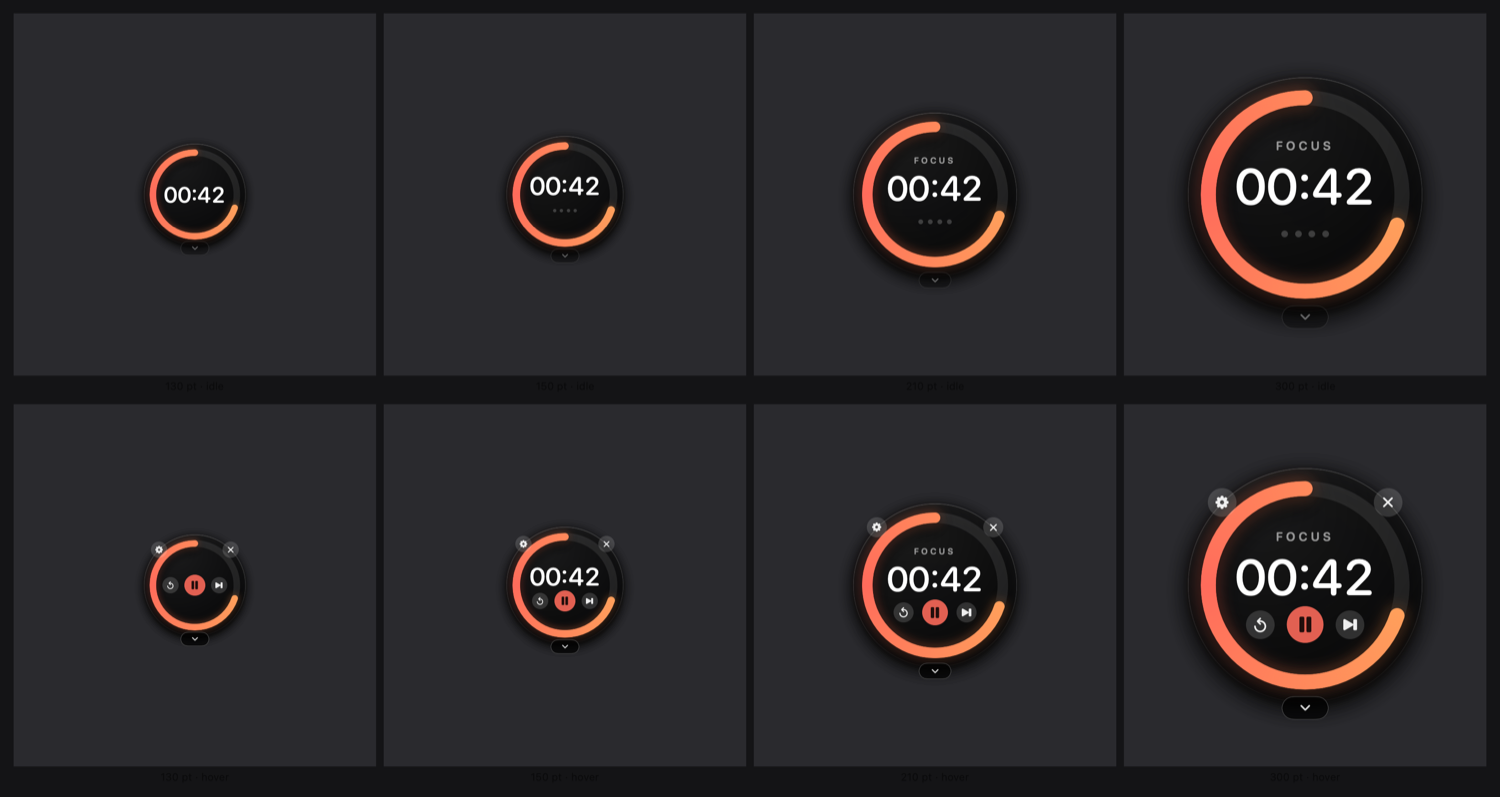
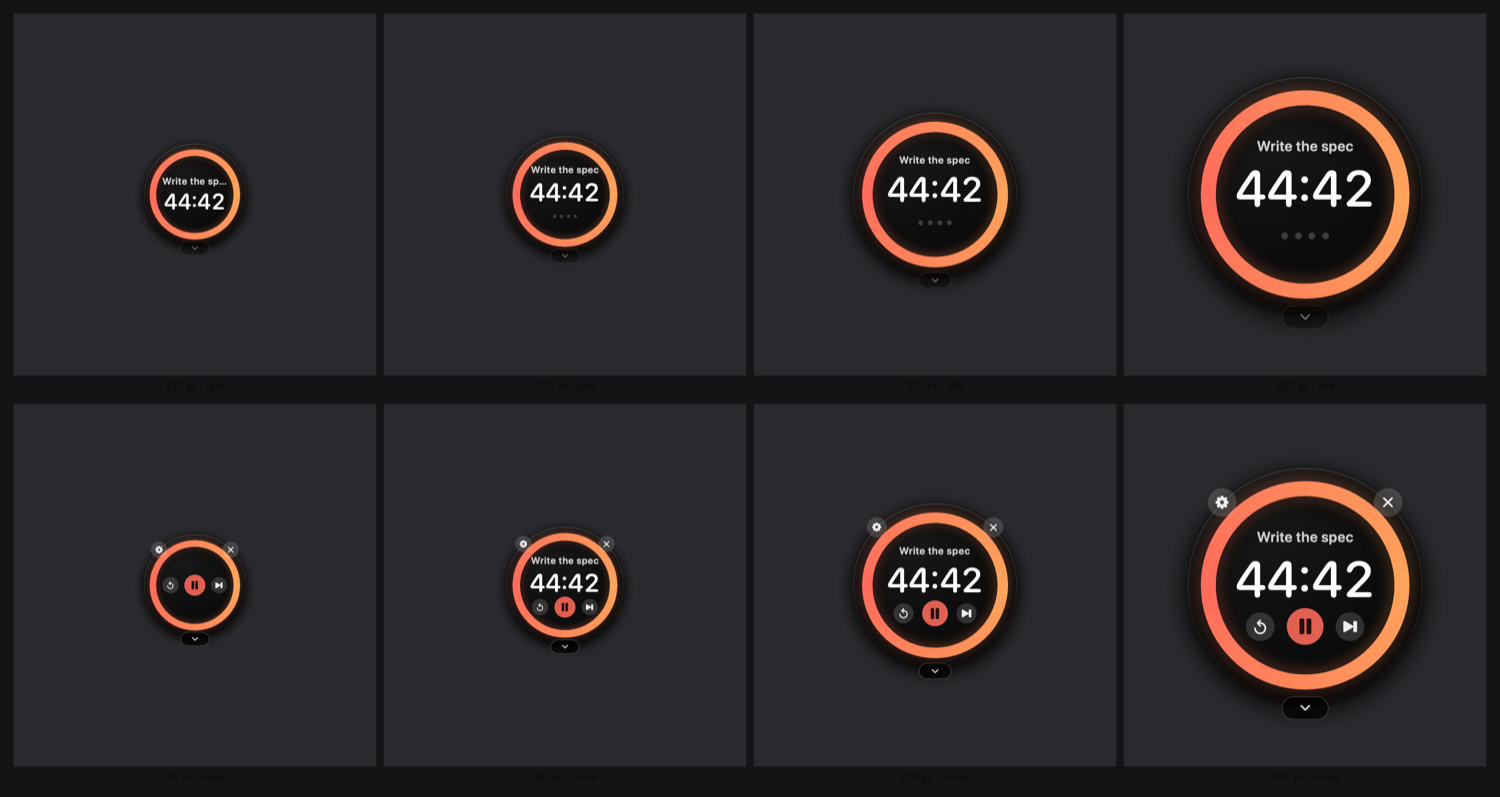
Fix five review bugs, handle display changes, bump to 1.1.0
Found reading back through main.swift after many rounds of patching:

- Hot-key re-registration looped. The guard compared the pref against whether
  any key had registered, so when registration legitimately failed (another app
  owning the combination) the condition stayed permanently true and every prefs
  change retried it — once per tick while dragging a slider. Now tracked with an
  explicit active flag.
- The drawer inherited the opacity setting. At 25% the one surface you actually
  read and type into became unreadable. It now stays opaque; only the dial, which
  you glance at, dims.
- Escape was swallowed app-wide whenever the drawer was open, so it fired even
  when the Settings window had focus. Now claimed only when the drawer is key.
- Closing the drawer always deactivated the app, which yanked focus away from
  our own Settings window if it happened to be open. Guarded.
- Display changes were unhandled entirely. Unplug a monitor or change resolution
  and the dial could be stranded off-canvas, recoverable only through the menu
  bar. Now observed, with ScreenFit pulling any window fully back into a visible
  frame — a stricter check than the saved-origin restore, which only tests for
  intersection and so passes a mostly-offscreen window.

87 tests: ScreenFit is covered, including an oversized window pinning to the
origin rather than flipping inside out.

diff --git a/src/main.swift b/src/main.swift
@@ -20,6 +20,7 @@ final class AppDelegate: NSObject, NSApplicationDelegate, NSMenuDelegate {
     private var drawerDismissMonitors: [Any] = []
     private var statusItem: NSStatusItem!
     private let hotKeys = HotKeyManager()
+    private var hotKeysActive = false
 
     private var bag = Set<AnyCancellable>()
     private var titleTimer: Timer?
@@ -139,6 +140,10 @@ final class AppDelegate: NSObject, NSApplicationDelegate, NSMenuDelegate {
         NotificationCenter.default.addObserver(
             self, selector: #selector(panelMoved),
             name: NSWindow.didMoveNotification, object: panel)
+        NotificationCenter.default.addObserver(
+            self, selector: #selector(screensChanged),
+            name: NSApplication.didChangeScreenParametersNotification, object: nil)
+        ensureOnScreen()
     }
 
     /// Restore the last position, but only if it still lands on a screen —
@@ -156,6 +161,28 @@ final class AppDelegate: NSObject, NSApplicationDelegate, NSMenuDelegate {
         guard let vf = NSScreen.main?.visibleFrame else { return NSPoint(x: 60, y: 60) }
         let side = CGFloat(prefs.size)
         return NSPoint(x: vf.maxX - side - 24, y: vf.maxY - side - 16)
+    }
+
+    /// Displays can be unplugged or re-resolutioned while we're parked on them.
+    @objc private func screensChanged() {
+        ensureOnScreen()
+        positionDrawer()
+        panel.orderFrontRegardless()
+    }
+
+    /// Pull the dial fully back into a visible frame. `restoredOrigin` only
+    /// checks that the saved rect *intersects* a screen, so a mostly-offscreen
+    /// window passes it.
+    private func ensureOnScreen() {
+        let f = panel.frame
+        guard let screen = NSScreen.screens.first(where: { $0.visibleFrame.intersects(f) })
+                ?? NSScreen.main else { return }
+        let fitted = ScreenFit.clamped(f, into: screen.visibleFrame)
+        guard fitted.origin != f.origin else { return }
+        isSnapping = true
+        panel.setFrameOrigin(fitted.origin)
+        isSnapping = false
+        prefs.origin = panel.frame.origin
     }
 
     @objc private func panelMoved() {
@@ -248,6 +275,7 @@ final class AppDelegate: NSObject, NSApplicationDelegate, NSMenuDelegate {
     }
 
     private func applyHotKeys() {
+        hotKeysActive = prefs.hotKeysEnabled
         guard prefs.hotKeysEnabled else { hotKeys.disable(); return }
         hotKeys.enable([
             1: { [weak self] in self?.engine.toggle() },
@@ -258,12 +286,11 @@ final class AppDelegate: NSObject, NSApplicationDelegate, NSMenuDelegate {
     }
 
     private func applyPrefs() {
-        if prefs.hotKeysEnabled != !hotKeys.registered.isEmpty { applyHotKeys() }
+        if prefs.hotKeysEnabled != hotKeysActive { applyHotKeys() }
         applySize()
         applyAlpha()
         panel.level = prefs.alwaysOnTop ? .floating : .normal
         drawer?.level = panel.level
-        drawer?.alphaValue = prefs.opacity
         if !prefs.clickThrough { panel.ignoresMouseEvents = false }
         if !isResizing { panel.orderFrontRegardless() }
     }
@@ -359,7 +386,9 @@ final class AppDelegate: NSObject, NSApplicationDelegate, NSMenuDelegate {
         p.worksWhenModal = true
         p.animationBehavior = .none
         p.isReleasedWhenClosed = false
-        p.alphaValue = prefs.opacity
+        // Deliberately not dimmed by the opacity setting: this is a surface you
+        // read and type into, unlike the dial you glance at.
+        p.alphaValue = 1
 
         p.contentView = NSHostingView(rootView: TaskDrawerView(
             tasks: tasks, prefs: prefs, engine: engine,
@@ -387,8 +416,9 @@ final class AppDelegate: NSObject, NSApplicationDelegate, NSMenuDelegate {
         drawer?.orderOut(nil)
         drawer = nil
         ui.drawerOpen = false
-        // Give focus back to whatever you were working in.
-        NSApp.deactivate()
+        // Hand focus back to whatever you were working in — unless our own
+        // Settings window is open, in which case deactivating would yank it away.
+        if settingsWindow?.isVisible != true { NSApp.deactivate() }
     }
 
     /// Sits just under the disc, centred on it — and flips above when the dial
@@ -432,7 +462,12 @@ final class AppDelegate: NSObject, NSApplicationDelegate, NSMenuDelegate {
             matching: [.leftMouseDown, .rightMouseDown, .keyDown],
             handler: { [weak self] event in
                 if event.type == .keyDown {
-                    if event.keyCode == 53 { self?.closeDrawer(); return nil }  // esc
+                    // Only claim escape when the drawer itself has focus, or it
+                    // would hijack the key from the Settings window.
+                    if event.keyCode == 53, self?.drawer?.isKeyWindow == true {
+                        self?.closeDrawer()
+                        return nil
+                    }
                     return event
                 }
                 self?.closeIfClickedOutside()

diff --git a/tests/main.swift b/tests/main.swift
@@ -326,6 +326,32 @@ check("grows with rows",
 check("caps so it cannot run off screen",
       TaskDrawerView.height(for: 50) == TaskDrawerView.height(for: TaskDrawerView.maxRows))
 
+print("windows are pulled back on screen")
+let visible = CGRect(x: 0, y: 0, width: 1470, height: 900)
+let inside = CGRect(x: 400, y: 300, width: 200, height: 200)
+check("an on-screen window is left alone",
+      ScreenFit.clamped(inside, into: visible) == inside)
+// A window hanging off the right edge intersects the screen, so the saved-origin
+// check passes it — this is the stricter pass that actually rescues it.
+let hangingRight = CGRect(x: 1400, y: 300, width: 200, height: 200)
+check("pulled in from the right",
+      ScreenFit.clamped(hangingRight, into: visible).maxX == visible.maxX,
+      "got \(ScreenFit.clamped(hangingRight, into: visible))")
+let hangingLow = CGRect(x: 400, y: -150, width: 200, height: 200)
+check("pulled up from below",
+      ScreenFit.clamped(hangingLow, into: visible).minY == visible.minY,
+      "got \(ScreenFit.clamped(hangingLow, into: visible))")
+let stranded = CGRect(x: 4000, y: 4000, width: 200, height: 200)
+let rescued = ScreenFit.clamped(stranded, into: visible)
+check("a fully stranded window comes back",
+      visible.contains(rescued), "got \(rescued)")
+// Never move a window that is larger than the screen off its own top-left.
+let huge = CGRect(x: -50, y: -50, width: 2000, height: 2000)
+let hugeFit = ScreenFit.clamped(huge, into: visible)
+check("an oversized window pins to the origin rather than flipping",
+      hugeFit.origin.x == visible.minX && hugeFit.origin.y == visible.minY,
+      "got \(hugeFit)")
+
 UserDefaults.standard.removePersistentDomain(forName: suite)
 print(failures == 0 ? "\nALL PASSED" : "\n\(failures) FAILED")
 exit(failures == 0 ? 0 : 1)

diff --git a/src/TaskDrawer.swift b/src/TaskDrawer.swift
@@ -122,7 +122,7 @@ struct TaskDrawerView: View {
                     Text("No tasks yet")
                         .font(.system(size: 12, weight: .medium))
                         .foregroundStyle(.white.opacity(0.55))
-                    Text("Type above and press ↩")
+                    Text("Type above, then ↩ or +")
                         .font(.system(size: 10.5))
                         .foregroundStyle(.white.opacity(0.32))
                 }
@@ -268,7 +268,7 @@ private struct DurationMenu: View {
                 .foregroundStyle(.white.opacity(0.7))
                 .padding(.horizontal, 7)
                 .padding(.vertical, 2.5)
-                .background(Capsule().fill(Color.white.opacity(0.12)))
+                .background(Capsule().fill(Color.white.opacity(0.16)))
         }
         .menuStyle(.borderlessButton)
         .menuIndicator(.hidden)

diff --git a/src/Geometry.swift b/src/Geometry.swift
@@ -57,3 +57,18 @@ enum DrawerLayout {
         return CGRect(x: x, y: y, width: width, height: height)
     }
 }
+
+enum ScreenFit {
+    /// Pull a window frame fully inside a visible screen frame.
+    ///
+    /// Restoring a saved position only checks that the rect *intersects* a
+    /// screen, so a window left mostly off the edge — or stranded by a display
+    /// being unplugged or re-resolutioned — still passes that check. This is
+    /// the stricter version: entirely on screen, or moved until it is.
+    static func clamped(_ frame: CGRect, into visible: CGRect) -> CGRect {
+        var o = frame.origin
+        o.x = min(max(o.x, visible.minX), max(visible.minX, visible.maxX - frame.width))
+        o.y = min(max(o.y, visible.minY), max(visible.minY, visible.maxY - frame.height))
+        return CGRect(origin: o, size: frame.size)
+    }
+}

diff --git a/tools/main.swift b/tools/main.swift
@@ -28,9 +28,14 @@ final class DialSpec: Identifiable {
         let p = Prefs(defaults: UserDefaults(suiteName: "preview.\(size).\(hover)")!)
         p.size = size
         p.themeID = theme
-        p.focusMinutes = 1              // 60s phase
+        p.focusMinutes = 1              // unused once a task is active
         self.prefs = p
-        self.engine = TimerEngine(prefs: p, stats: Stats(defaults: store))
+        // Every dial carries an active task, so the size sweep also proves the
+        // task name survives down to the smallest dial.
+        let store2 = TaskStore(defaults: UserDefaults(suiteName: "preview.t.\(size).\(hover)")!)
+        let t = store2.add(title: "Write the spec", minutes: 45)!
+        store2.activate(t.id)
+        self.engine = TimerEngine(prefs: p, stats: Stats(defaults: store), tasks: store2)
     }
 }
 

diff --git a/src/PomodoroView.swift b/src/PomodoroView.swift
@@ -89,7 +89,7 @@ struct PomodoroView: View {
             cornerButtons
             drawerTab
         }
-        .help(engine.activeTaskTitle ?? "")
+        .help(engine.activeTaskTitle ?? engine.phase.title)
         .animation(.easeInOut(duration: 0.35), value: engine.phase)
         .animation(.easeInOut(duration: 0.2), value: prefs.themeID)
     }

diff --git a/README.md b/README.md
@@ -109,7 +109,7 @@ Xcode command line tools are enough — there is no Xcode project, just `swiftc`
 ./build.sh          # produces build/Pomodoro.app
 open build/Pomodoro.app
 
-./test.sh           # 82 tests, no simulator or Xcode project needed
+./test.sh           # 87 tests, no simulator or Xcode project needed
 ./package.sh        # produces build/Pomodoro-<version>.zip for distribution
 ```
 
